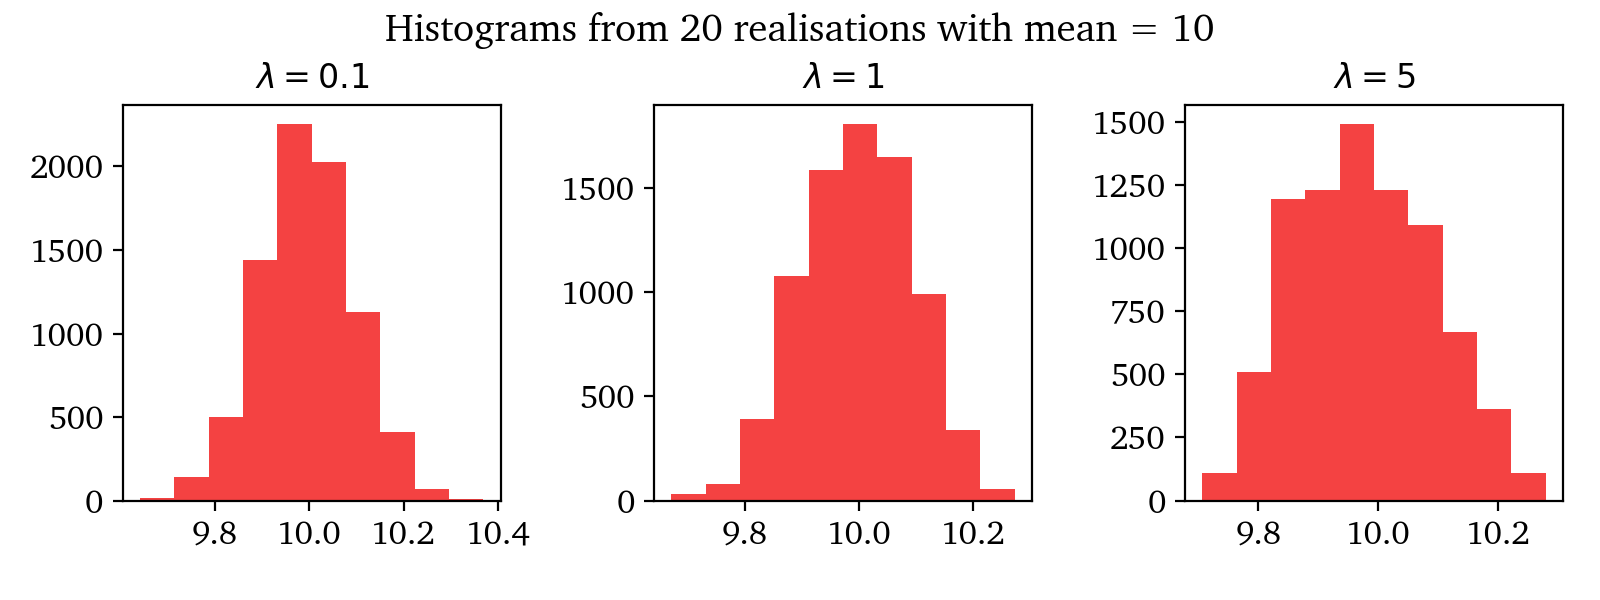
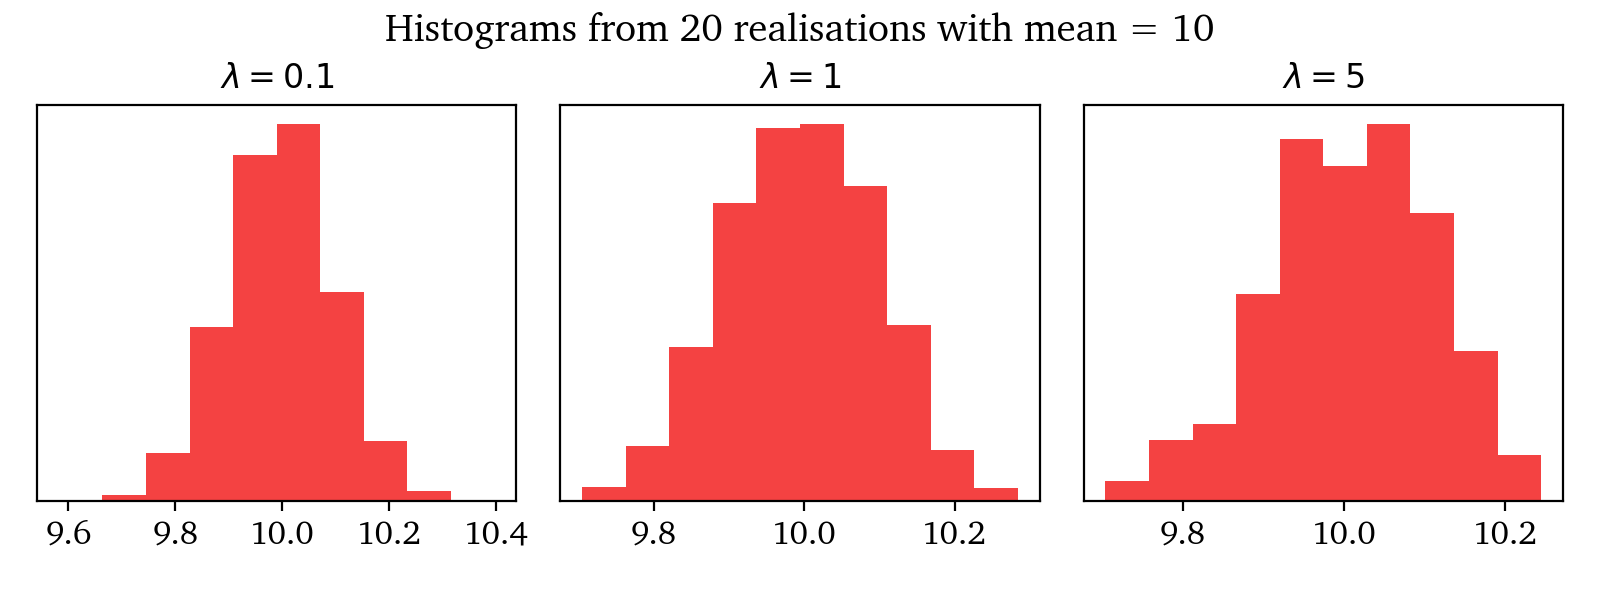
Histograms update

diff --git a/GPR/GPR-Python/realisationHistogram.py b/GPR/GPR-Python/realisationHistogram.py
@@ -3,7 +3,6 @@ import numpy as np
 import matplotlib.pyplot as plt
 import math
 import covMatrix
-import matplotlib.gridspec as gridspec
 
 ## Styles
 csfont = {'fontname':'Charter', 'fontweight':'regular'}
@@ -33,13 +32,15 @@ for idx, i in enumerate(lam):
 
     # Append nRel number of realisations:
     nRel = 19
+
     for rel in range(1,1+nRel):
         y = np.append(y, np.random.multivariate_normal(10*np.ones(len(x)), Cov))
 
     figureSubplot = figure.add_subplot(1,3,idx+1)
 
     plt.hist(y, color=lineColour)
-    plt.title('$\lambda = ' + str(i) + '$', **csfont, fontsize=font_title)
+    plt.title(('$\lambda = ' + str(i) + '$'), **csfont, fontsize=font_title)
+    plt.yticks([])
 
     # Set the tick labels font
     for label in (figureSubplot.get_xticklabels()):

diff --git a/GPR/GPR-Python/README.md b/GPR/GPR-Python/README.md
@@ -8,8 +8,6 @@ We explore graphically how changing hyperparameters for the squared exponential 
 
 ![Screenshot](cov-Kernel-SE-changing-lambda.png)
 
-#### Histogram of multivariate realisations
-
 ![Screenshot](realisation-Histogram.png)
 
 ### Effect of changing `h` - scaling factor
